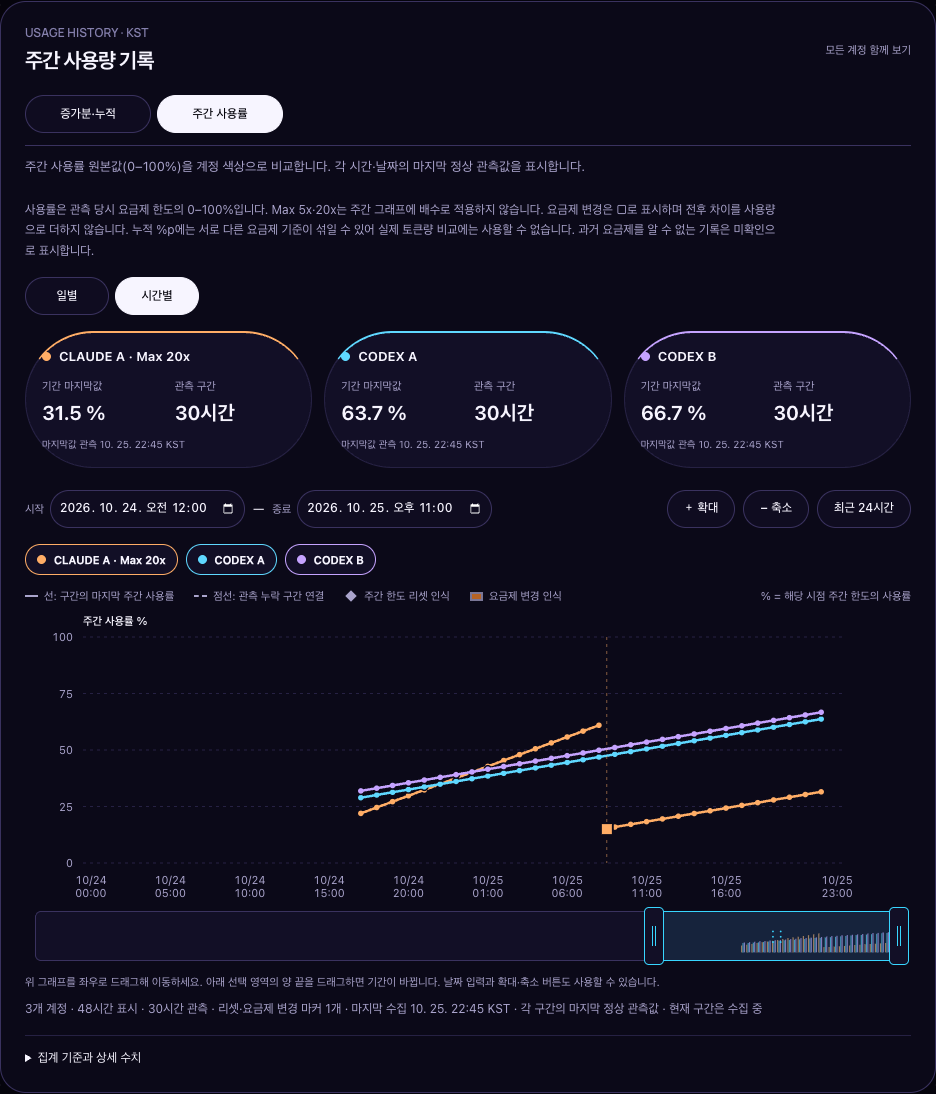
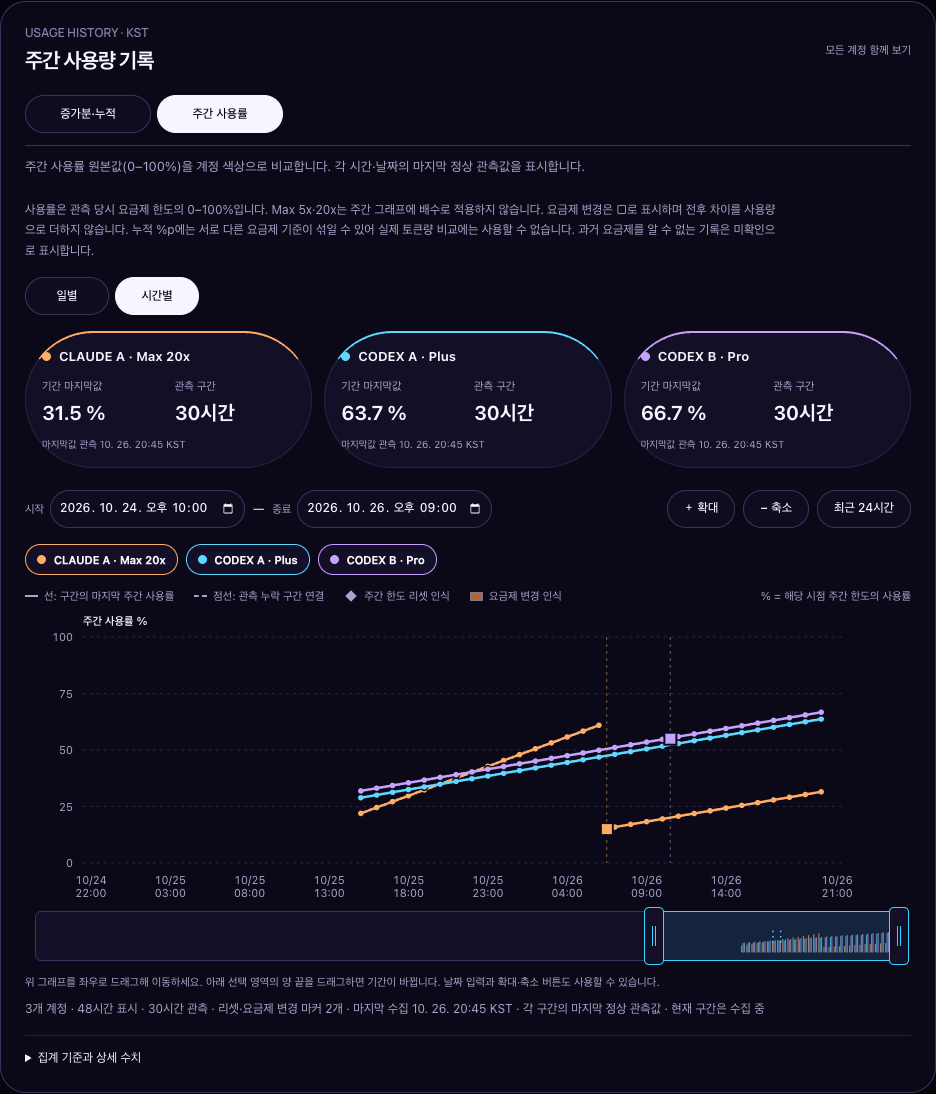
feat: recognize Codex account plans in dashboard and history

diff --git a/token_tv/web/history.js b/token_tv/web/history.js
@@ -21,8 +21,8 @@
  const amount = value => finite(value) ? fmt(value) + ' %p' : '—';
  const percent = value => finite(value) ? fmt(value) + ' %' : '—';
  const planLabel = item => item?.subscription?.label || '요금제 미확인';
- const planSuffix = (series, point) => series.provider === 'claude' ? ' · ' + planLabel(point) : '';
- const accountLabel = series => series.alias + (series.provider === 'claude' ? ' · ' + planLabel(series) : '');
+ const planSuffix = (series, point) => ['claude','codex'].includes(series.provider) ? ' · ' + planLabel(point) : '';
+ const accountLabel = series => series.alias + planSuffix(series,series);
  const increaseDescription = q('description').textContent, increaseDetails = q('details-text').textContent;
  const kstDay = epoch => new Date(epoch * 1000 + 9 * 3600000).toISOString().slice(0,mode === 'hour' ? 16 : 10);
  const timeLabel = epoch => epoch ? new Intl.DateTimeFormat('ko-KR', {timeZone:'Asia/Seoul', month:'2-digit', day:'2-digit', hour:'2-digit', minute:'2-digit', hour12:false}).format(new Date(epoch * 1000)) : '아직 없음';
@@ -251,7 +251,7 @@
     const point=series.points[index]; if(!point) continue;
     const row=element('tr');
     const account=element('td'),badge=element('span','history-table-account'); badge.style.setProperty('--series-color',series.color);
-    badge.append(element('i','history-account-dot'),element('span','',series.alias+(series.provider==='claude'?' · '+planLabel(point):''))); account.append(badge);
+    badge.append(element('i','history-account-dot'),element('span','',series.alias+planSuffix(series,point))); account.append(badge);
     row.append(element('td','',bucketText(point.date)),account);
     const notes=point.observations?`${point.observations}회${!weekly&&point.partial?' · 부분*':''}${point.in_progress?' · 수집 중':''}${point.resets?' · 주간 초기화':''}${point.plan_changes?' · 요금제 변경':''}`:'기록 없음';
     const values=weekly?[fmt(point.weekly_percent),point.weekly_observed_at?timeLabel(point.weekly_observed_at):'—',notes]:[fmt(point.used_pp),fmt(point.cumulative_pp),notes];

diff --git a/token_tv/web/app.js b/token_tv/web/app.js
@@ -187,7 +187,7 @@ function providerCard(provider, accounts) {
  if (checked) {const d = new Date(checked * 1000); when = el('time', d.toLocaleTimeString('en-GB', {hour:'2-digit', minute:'2-digit'}), 'stat-v'); when.dateTime = d.toISOString(); when.title = d.toLocaleString('en-GB')}
  const foot = el('div', undefined, 'card-foot');
  foot.append(stat('Account', a.alias || '—'), stat('Window', primary ? period(primary) : '—'), stat('Source', a.source === 'mini' ? 'This computer' : a.source === 'codexbar' ? 'CodexBar' : a.source ? 'Linked snapshot' : '—'), stat(stale ? 'Last good' : 'Checked', when), stat('Status', el('span', offline ? 'OFFLINE · Previous value' : STATUS[a.status] || 'Unknown', 'row-status stat-v'), 'stat-status'));
- if (provider === 'claude') foot.prepend(stat('Plan', a.subscription?.label || '요금제 미확인'));
+ if (['claude', 'codex'].includes(provider)) foot.prepend(stat('Plan', a.subscription?.label || '요금제 미확인'));
  card.append(foot);
  if (!DEMO && a.login_available) {
   const connection = el('div', undefined, 'account-connect');

diff --git a/tests/test_subscription.py b/tests/test_subscription.py
@@ -4,11 +4,11 @@ import tempfile
 import unittest
 from datetime import datetime, timedelta
 from pathlib import Path
-from unittest.mock import patch
+from unittest.mock import patch, MagicMock
 
 from token_tv.history import UsageHistory, KST, day_at
 from token_tv.sources import fetch_account
-from token_tv.subscription import claude_subscription, metadata
+from token_tv.subscription import claude_subscription, codex_subscription, metadata
 
 
 ACCOUNT = {'key': 'claude_a', 'alias': 'CLAUDE A', 'provider': 'claude', 'email': 'a@example.invalid'}
@@ -40,6 +40,44 @@ class SubscriptionTests(unittest.TestCase):
             row=fetch_account(ACCOUNT)
         self.assertNotIn('subscription',row)
         self.assertEqual(row['status'],'identity_mismatch')
+
+
+    def test_codex_plan_types_and_same_account_fallback(self):
+        for value in ('free','go','plus','pro','prolite','promax','team','business','enterprise','edu'):
+            self.assertEqual(codex_subscription({'planType':value}),metadata(value))
+        self.assertEqual(codex_subscription({'planType':'plus'},{'planType':'pro'}),metadata('plus'))
+        self.assertEqual(codex_subscription({'planType':'unknown'},{'planType':'pro'}),metadata('pro'))
+        for value in (None,[],{},'unknown','future_plan','max_20x'):
+            self.assertEqual(codex_subscription({'planType':value}),metadata(None))
+
+    def test_codex_rpc_verifies_identity_before_exporting_plan(self):
+        account={**ACCOUNT,'provider':'codex','key':'codex_a','source_home':'/unused'}
+        rpc=MagicMock()
+        def call(method,*args):
+            return {'initialize':{},'account/read':{'account':{
+                'type':'chatgpt','email':account['email'],'planType':'plus','secret':'DO-NOT-EXPORT'}},
+                'account/rateLimits/read':{'rateLimits':{'planType':'plus','primary':{
+                    'usedPercent':35,'windowDurationMins':10080}}}}[method]
+        rpc.call.side_effect=call
+        with patch('token_tv.sources.Path.is_file',return_value=True), patch('token_tv.sources.RPC',return_value=rpc):
+            row=fetch_account(account)
+        self.assertEqual(row['status'],'ok')
+        self.assertEqual(row['subscription'],metadata('plus'))
+        self.assertEqual(row['windows'][0]['used_percent'],35)
+        self.assertNotIn('DO-NOT-EXPORT',json.dumps(row))
+        self.assertNotIn(account['email'],json.dumps(row))
+        rpc.close.assert_called_once()
+        rpc.reset_mock()
+        def mismatch(method,*args):
+            if method=='account/read':return {'account':{'type':'chatgpt','email':'wrong@example.invalid','planType':'pro'}}
+            if method=='account/rateLimits/read':raise AssertionError('Quota requested before identity check')
+            return {}
+        rpc.call.side_effect=mismatch
+        with patch('token_tv.sources.Path.is_file',return_value=True), patch('token_tv.sources.RPC',return_value=rpc):
+            row=fetch_account(account)
+        self.assertEqual(row['status'],'identity_mismatch')
+        self.assertNotIn('subscription',row)
+        rpc.close.assert_called_once()
 
 
 class PlanHistoryTests(unittest.TestCase):
@@ -124,6 +162,27 @@ class PlanHistoryTests(unittest.TestCase):
         self.assertEqual(self.query()['reset_events'],[])
         self.assertEqual(len(self.query()['plan_events']),1)
         self.assertIsNone(self.query()['range_used_pp'])
+
+    def test_codex_accounts_keep_independent_plans_and_changes(self):
+        accounts=[{**ACCOUNT,'provider':'codex','key':'codex_a','alias':'CODEX A'},
+                  {**ACCOUNT,'provider':'codex','key':'codex_b','alias':'CODEX B','email':'b@example.invalid'}]
+        ledger=UsageHistory(self.path,accounts)
+        for offset,values in [(0,[(80,'plus'),(10,'pro')]),(300,[(20,'pro'),(12,'pro')]),
+                              (600,[(22,'pro'),(16,'pro')])]:
+            observed=self.base+offset
+            rows={a['key']:{'status':'ok','identity_verified':True,'fetched_at':observed,
+                'subscription':metadata(plan),'windows':[{'label':'WEEK','used_percent':value,'resets_at':self.reset}]}
+                for a,(value,plan) in zip(accounts,values)}
+            with patch('token_tv.history.time.time',return_value=observed):ledger.record({'accounts':rows})
+        for mode in ('day','hour'):
+            for key,total,changes in [('codex_a',2,1),('codex_b',6,0)]:
+                stamp=lambda value:datetime.fromtimestamp(value,KST).isoformat(timespec='minutes')[:16]
+                result=ledger.query(key,day_at(self.base),day_at(self.base+3600)) if mode=='day' else ledger.query(key,stamp(self.base),stamp(self.base+3600),'hour')
+                self.assertEqual(result['range_used_pp'],total)
+                self.assertEqual(len(result['plan_events']),changes)
+                if changes:
+                    self.assertEqual(result['plan_events'][0]['from'],metadata('plus'))
+                    self.assertEqual(result['plan_events'][0]['to'],metadata('pro'))
 
     def test_migration_preserves_legacy_observations_and_totals(self):
         self.record(0,10,None)

diff --git a/token_tv/sources.py b/token_tv/sources.py
@@ -19,7 +19,7 @@ from urllib.request import Request, urlopen
 
 from token_tv.usage import normalize_claude, normalize_codex, normalize_codexbar, normalize_grok, timestamp, window
 from token_tv.display import STYLES
-from token_tv.subscription import claude_subscription
+from token_tv.subscription import claude_subscription, codex_subscription
 
 CODEXBAR_SOURCES = {"auto", "web", "cli", "oauth", "api"}
 AUTH_WORDS = ("auth", "login", "sign in", "token")
@@ -248,7 +248,8 @@ def codex_payload(account):
             raise SourceError("auth_required")
         if not identity_matches(account["email"], identity.get("email")):
             raise SourceError("identity_mismatch")
-        return rpc.call("account/rateLimits/read")
+        data = rpc.call("account/rateLimits/read")
+        return dict(data, subscription=codex_subscription(identity, data.get('rateLimits')))
     finally:
         rpc.close()
 
@@ -426,7 +427,9 @@ def fetch_account(account, before_refresh=None):
             row["subscription"] = claude_subscription(profile)
             row["identity_verified"] = True
         elif account["provider"] == "codex":
-            row["windows"] = normalize_codex(codex_payload(account))
+            data = codex_payload(account)
+            row["windows"] = normalize_codex(data)
+            row["subscription"] = data['subscription']
             row["identity_verified"] = True
         else:
             if not identity_matches(account["email"], grok_identity(account)):

diff --git a/token_tv/subscription.py b/token_tv/subscription.py
@@ -1,7 +1,24 @@
 """Public plan metadata only; never persist the OAuth profile or credentials."""
 
 LABELS = {'pro': 'Pro', 'max': 'Max', 'max_5x': 'Max 5x', 'max_20x': 'Max 20x',
-          'team': 'Team', 'enterprise': 'Enterprise'}
+          'team': 'Team', 'enterprise': 'Enterprise', 'free': 'Free', 'go': 'Go',
+          'plus': 'Plus', 'prolite': 'Pro Lite', 'promax': 'Pro Max', 'business': 'Business',
+          'edu': 'Edu', 'edu_plus': 'Edu Plus', 'edu_pro': 'Edu Pro',
+          'self_serve_business_prolite': 'Business (Pro Lite)',
+          'self_serve_business_usage_based': 'Business (사용량 기반)',
+          'enterprise_cbp_automation': 'Enterprise (자동화)',
+          'enterprise_cbp_usage_based': 'Enterprise (사용량 기반)'}
+
+CODEX_PLANS = frozenset(LABELS) - {'max', 'max_5x', 'max_20x'}
+
+
+def codex_subscription(account, limits=None):
+    """Prefer the verified account; a same-account quota response is a fallback."""
+    for source in (account, limits):
+        value = source.get('planType') if isinstance(source, dict) else None
+        if isinstance(value, str) and value in CODEX_PLANS:
+            return metadata(value)
+    return metadata(None)
 
 
 def plan_id(value):

diff --git a/docs/usage-history.ko.md b/docs/usage-history.ko.md
@@ -15,6 +15,10 @@
 Claude 계정은 OAuth 프로필에서 확인한 **Pro / Max 5x / Max 20x / Team / Enterprise**를
 계정 카드와 그래프 범례에 표시합니다. Max만 확인되고 배수를 확인하지 못하면 `Max`,
 정보가 없으면 `요금제 미확인`으로 표시합니다. 수동으로 실제 한도를 바꾸지는 않습니다.
+Codex A/B도 기존 로그인과 공식 RPC의 요금제 정보로 **Free / Go / Plus / Pro / Pro Lite / Pro Max / Team / Business / Enterprise / Edu** 등을 구분합니다.
+정보가 없거나 인식하지 못하는 값은 미확인으로 표시합니다. 계정 카드, 그래프 범례, 구간별 표와 도움말에 동일하게 적용합니다.
+Pro Lite·Pro Max를 주간 사용률 배수로 환산하지 않습니다. 계정별로 관측 당시 요금제를 기록하고 변경 포인트를 표시합니다.
+
 기존 로그인으로 조회하며 이 기능을 위해 다시 로그인할 필요는 없습니다.
 
 사용률은 항상 **관측 당시 계정 한도의 0–100%**입니다. Max 5x·20x를 주간 그래프에
